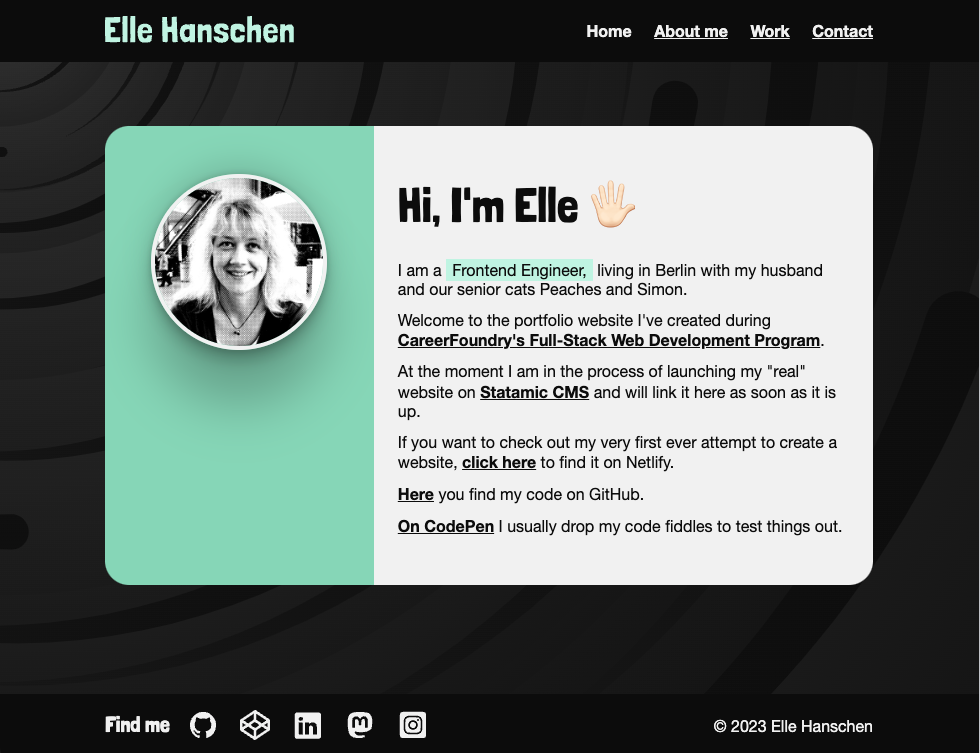
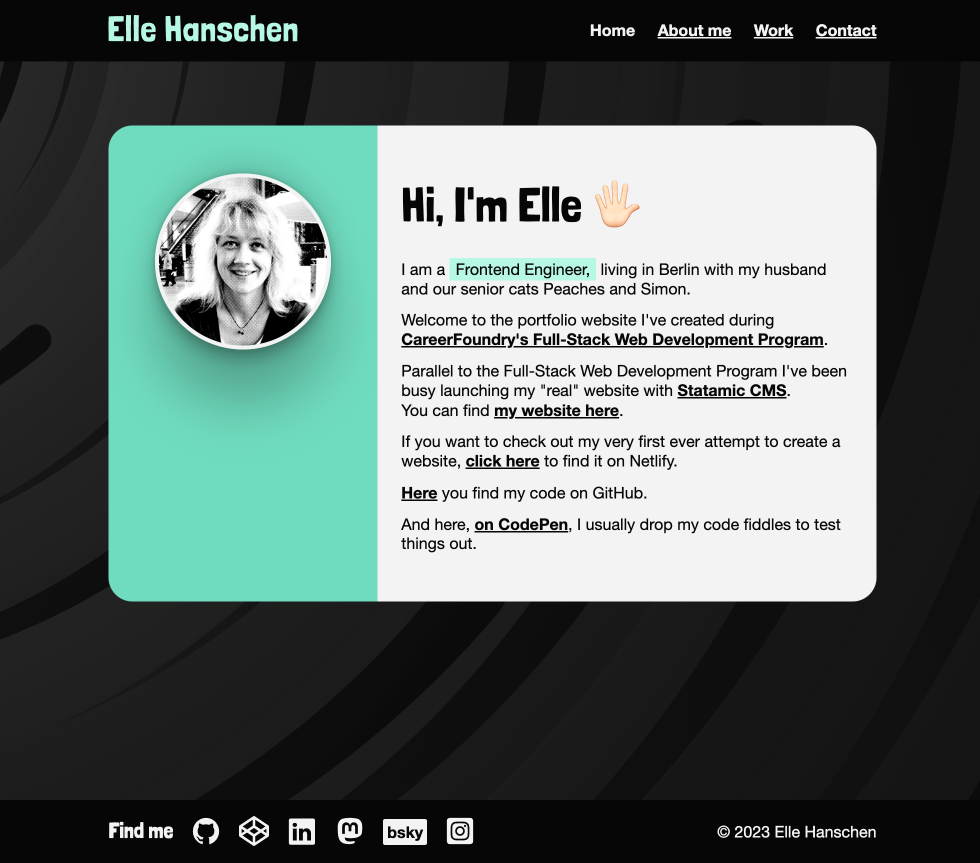
update content

diff --git a/work.html b/work.html
@@ -52,13 +52,13 @@
       <main class="main-content work">
         <h1 class="headline-primary">Most recent work</h1>
 
-        <!-- MoviePool -->
         <div class="work-grid-items">
+          <!-- MoviePool React -->
           <div class="work-grid-item">
             <div class="work-example">
               <img class="work-img" src="./img/work-moviepool-small.png"
                 alt="browser window screenshot of the moviepool app">
-              <h3 class="headline-tertiary">MoviePool App</h3>
+              <h3 class="headline-tertiary">MoviePool App - React</h3>
               <p class="text-content">
                 A responsive Single Page Application for movie lovers that want to be able to access information about
                 movies and, once signed up, manage their favorite movies. It's the frontend to the Movie API.
@@ -164,6 +164,27 @@
                 rel="noopener noreferrer">Demo</a>
             </div>
           </div>
+
+          <!-- MoviePool Angular -->
+          <div class="work-grid-item">
+            <div class="work-example">
+              <img class="work-img" src="./img/work-moviepool-angular-small.png"
+                alt="browser window screenshot of the moviepool app angular">
+              <h3 class="headline-tertiary">MoviePool App - Angular</h3>
+              <p class="text-content">
+                Responsive MoviePool App in Angular, that has been built analogue to previously built MoviePool App in
+                React. It's an app for movie lovers that want to be able to access information
+                about different movies. It's the frontend to the Movie API.
+              </p>
+            </div>
+
+            <div class="work-code">
+              <a href="https://github.com/EllyPirelly/cf-movie-angular-client" class="work-link" target="_blank"
+                rel="noopener noreferrer">Code</a>
+              <a href="https://ellypirelly.github.io/cf-movie-angular-client/welcome" class="work-link" target="_blank"
+                rel="noopener noreferrer">Demo</a>
+            </div>
+          </div>
         </div>
       </main>
 
@@ -212,6 +233,11 @@
                   <path fill="currentColor"
                     d="M433 179.11c0-97.2-63.71-125.7-63.71-125.7-62.52-28.7-228.56-28.4-290.48 0 0 0-63.72 28.5-63.72 125.7 0 115.7-6.6 259.4 105.63 289.1 40.51 10.7 75.32 13 103.33 11.4 50.81-2.8 79.32-18.1 79.32-18.1l-1.7-36.9s-36.31 11.4-77.12 10.1c-40.41-1.4-83-4.4-89.63-54a102.54 102.54 0 0 1-.9-13.9c85.63 20.9 158.65 9.1 178.75 6.7 56.12-6.7 105-41.3 111.23-72.9 9.8-49.8 9-121.5 9-121.5zm-75.12 125.2h-46.63v-114.2c0-49.7-64-51.6-64 6.9v62.5h-46.33V197c0-58.5-64-56.6-64-6.9v114.2H90.19c0-122.1-5.2-147.9 18.41-175 25.9-28.9 79.82-30.8 103.83 6.1l11.6 19.5 11.6-19.5c24.11-37.1 78.12-34.8 103.83-6.1 23.71 27.3 18.4 53 18.4 175z" />
                 </svg>
+              </a>
+
+              <a href="https://bsky.app/profile/ellypirelly.bsky.social" target="_blank" rel="noopener noreferrer"
+                class="social-media--bsky">
+                <span>bsky</span>
               </a>
 
               <a href="https://www.instagram.com/ellypirelly/" target="_blank" rel="noopener noreferrer">

diff --git a/index.html b/index.html
@@ -69,9 +69,13 @@
             <p class="text-content">Welcome to the portfolio website I've created during <a
                 href="https://careerfoundry.com/en/courses/become-a-web-developer/">CareerFoundry's Full-Stack Web
                 Development Program</a>.
-            <p class="text-content">At the moment I am in the process of launching my "real" website on <a
-                href="https://statamic.com/" target="_blank" rel="noopener noreferrer">Statamic CMS</a> and will link it
-              here as soon as it is up.
+            <p class="text-content">Parallel to the Full-Stack Web Development Program I've been busy launching my
+              "real" website with <a href="https://statamic.com/" target="_blank" rel="noopener noreferrer">Statamic
+                CMS</a>.
+            </p>
+            <p>
+              You can find <a href="https://elle-hanschen.com/" target="_blank" rel="noopener noreferrer">my website
+                here</a>.
             </p>
             </p>
             <p class="text-content">If you want to check out my very first ever attempt to create a website, <a
@@ -82,8 +86,9 @@
               <a href="https://github.com/EllyPirelly" target="_blank" rel="noopener noreferrer">Here</a> you find
               my code on GitHub.
             </p>
-            <p class="text-content">
-              <a href="ttps://codepen.io/ellypirelly" target="_blank" rel="noopener noreferrer">On CodePen</a> I usually
+            <p class="text-content"> And here,
+              <a href="ttps://codepen.io/ellypirelly" target="_blank" rel="noopener noreferrer">on CodePen</a>, I
+              usually
               drop my code fiddles to test things out.
             </p>
           </div>
@@ -135,6 +140,11 @@
                   <path fill="currentColor"
                     d="M433 179.11c0-97.2-63.71-125.7-63.71-125.7-62.52-28.7-228.56-28.4-290.48 0 0 0-63.72 28.5-63.72 125.7 0 115.7-6.6 259.4 105.63 289.1 40.51 10.7 75.32 13 103.33 11.4 50.81-2.8 79.32-18.1 79.32-18.1l-1.7-36.9s-36.31 11.4-77.12 10.1c-40.41-1.4-83-4.4-89.63-54a102.54 102.54 0 0 1-.9-13.9c85.63 20.9 158.65 9.1 178.75 6.7 56.12-6.7 105-41.3 111.23-72.9 9.8-49.8 9-121.5 9-121.5zm-75.12 125.2h-46.63v-114.2c0-49.7-64-51.6-64 6.9v62.5h-46.33V197c0-58.5-64-56.6-64-6.9v114.2H90.19c0-122.1-5.2-147.9 18.41-175 25.9-28.9 79.82-30.8 103.83 6.1l11.6 19.5 11.6-19.5c24.11-37.1 78.12-34.8 103.83-6.1 23.71 27.3 18.4 53 18.4 175z" />
                 </svg>
+              </a>
+
+              <a href="https://bsky.app/profile/ellypirelly.bsky.social" target="_blank" rel="noopener noreferrer"
+                class="social-media--bsky">
+                <span>bsky</span>
               </a>
 
               <a href="https://www.instagram.com/ellypirelly/" target="_blank" rel="noopener noreferrer">

diff --git a/contact.html b/contact.html
@@ -57,8 +57,8 @@
             <p class="text-content">Email: <br> <a
                 href="mailto:name.lastname@emailprovider.com">name.lastname@provider.com</a></p>
 
-            <p class="text-content">Heads Up: The contact form is not working, the HTML you see here has been a part of
-              the exercise of developing this site.
+            <p class="text-content">Heads Up: The contact form does NOT submit anything, the HTML you see here has been
+              a part of the exercise of developing a form for this site.
             </p>
 
             <form action="get" method="post" id="contact-form">
@@ -133,6 +133,11 @@
                 </svg>
               </a>
 
+              <a href="https://bsky.app/profile/ellypirelly.bsky.social" target="_blank" rel="noopener noreferrer"
+                class="social-media--bsky">
+                <span>bsky</span>
+              </a>
+
               <a href="https://www.instagram.com/ellypirelly/" target="_blank" rel="noopener noreferrer">
                 <svg xmlns="http://www.w3.org/2000/svg" role="img" aria-label="Instagram Logo" width="30px"
                   height="30px" viewBox="0 0 448 512">
@@ -146,6 +151,7 @@
 
           <p class="footer-copyright">© 2023 Elle Hanschen</p>
         </div>
+
       </footer>
     </div>
 

diff --git a/css/styles.production.css b/css/styles.production.css
@@ -44,6 +44,11 @@ a:hover {
   text-decoration: none;
 }
 
+a:hover.social-media--bsky {
+  background-color: #3a7ca5;
+  text-decoration: none;
+}
+
 .button {
   border: none;
   border-radius: 8px;
@@ -536,12 +541,41 @@ a:hover {
 }
 
 .social-media {
+  -webkit-box-align: center;
+  -ms-flex-align: center;
+  align-items: center;
+  display: -webkit-box;
+  display: -ms-flexbox;
+  display: flex;
+  -webkit-box-pack: center;
+  -ms-flex-pack: center;
+  justify-content: center;
+  margin-bottom: 12px;
   margin-top: 12px;
 }
 
 .social-media a {
   display: inline-block;
   line-height: 1;
+}
+
+a.social-media--bsky {
+  -webkit-box-align: center;
+  -ms-flex-align: center;
+  align-items: center;
+  background-color: #f3f3f3;
+  border-radius: 2px;
+  color: #080808;
+  display: -webkit-box;
+  display: -ms-flexbox;
+  display: flex;
+  height: 26px;
+  -webkit-box-pack: center;
+  -ms-flex-pack: center;
+  justify-content: center;
+  padding: 4px;
+  text-decoration: none;
+  width: auto;
 }
 
 .social-media a:not(:first-of-type) {
@@ -662,6 +696,7 @@ a:hover {
   }
 
   .social-media {
+    margin-bottom: 0;
     margin-top: 0;
   }
 

diff --git a/css/styles.css b/css/styles.css
@@ -79,6 +79,11 @@ a:hover {
   text-decoration: none;
 }
 
+a:hover.social-media--bsky {
+  background-color: var(--secondary-color);
+  text-decoration: none;
+}
+
 .button {
   border: none;
   border-radius: var(--border-radius);
@@ -464,12 +469,29 @@ a:hover {
 }
 
 .social-media {
+  align-items: center;
+  display: flex;
+  justify-content: center;
+  margin-bottom: var(--margin-small);
   margin-top: var(--margin-small);
 }
 
 .social-media a {
   display: inline-block;
   line-height: 1;
+}
+
+a.social-media--bsky {
+  align-items: center;
+  background-color: var(--white);
+  border-radius: 2px;
+  color: var(--black);
+  display: flex;
+  height: 26px;
+  justify-content: center;
+  padding: 4px;
+  text-decoration: none;
+  width: auto;
 }
 
 .social-media a:not(:first-of-type) {
@@ -560,6 +582,7 @@ a:hover {
   }
 
   .social-media {
+    margin-bottom: 0;
     margin-top: 0;
   }
 

diff --git a/about.html b/about.html
@@ -1566,6 +1566,11 @@
                 </svg>
               </a>
 
+              <a href="https://bsky.app/profile/ellypirelly.bsky.social" target="_blank" rel="noopener noreferrer"
+                class="social-media--bsky">
+                <span>bsky</span>
+              </a>
+
               <a href="https://www.instagram.com/ellypirelly/" target="_blank" rel="noopener noreferrer">
                 <svg xmlns="http://www.w3.org/2000/svg" role="img" aria-label="Instagram Logo" width="30px"
                   height="30px" viewBox="0 0 448 512">
